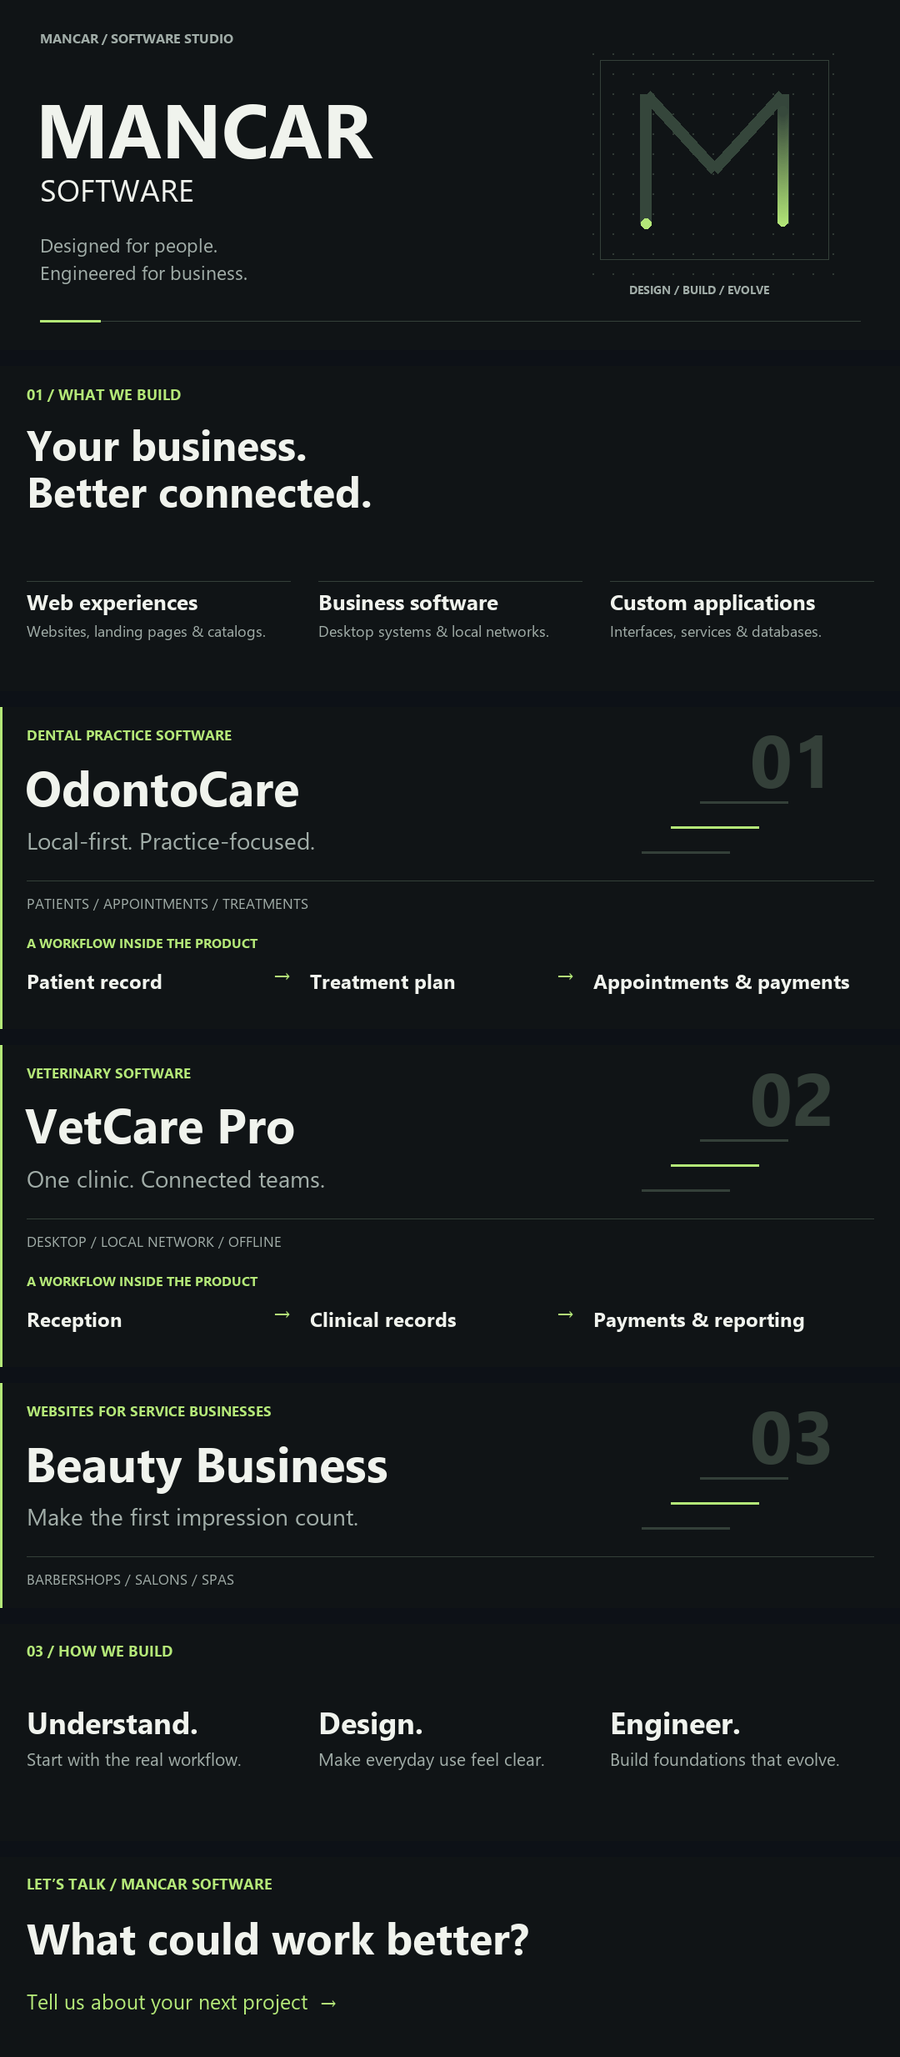
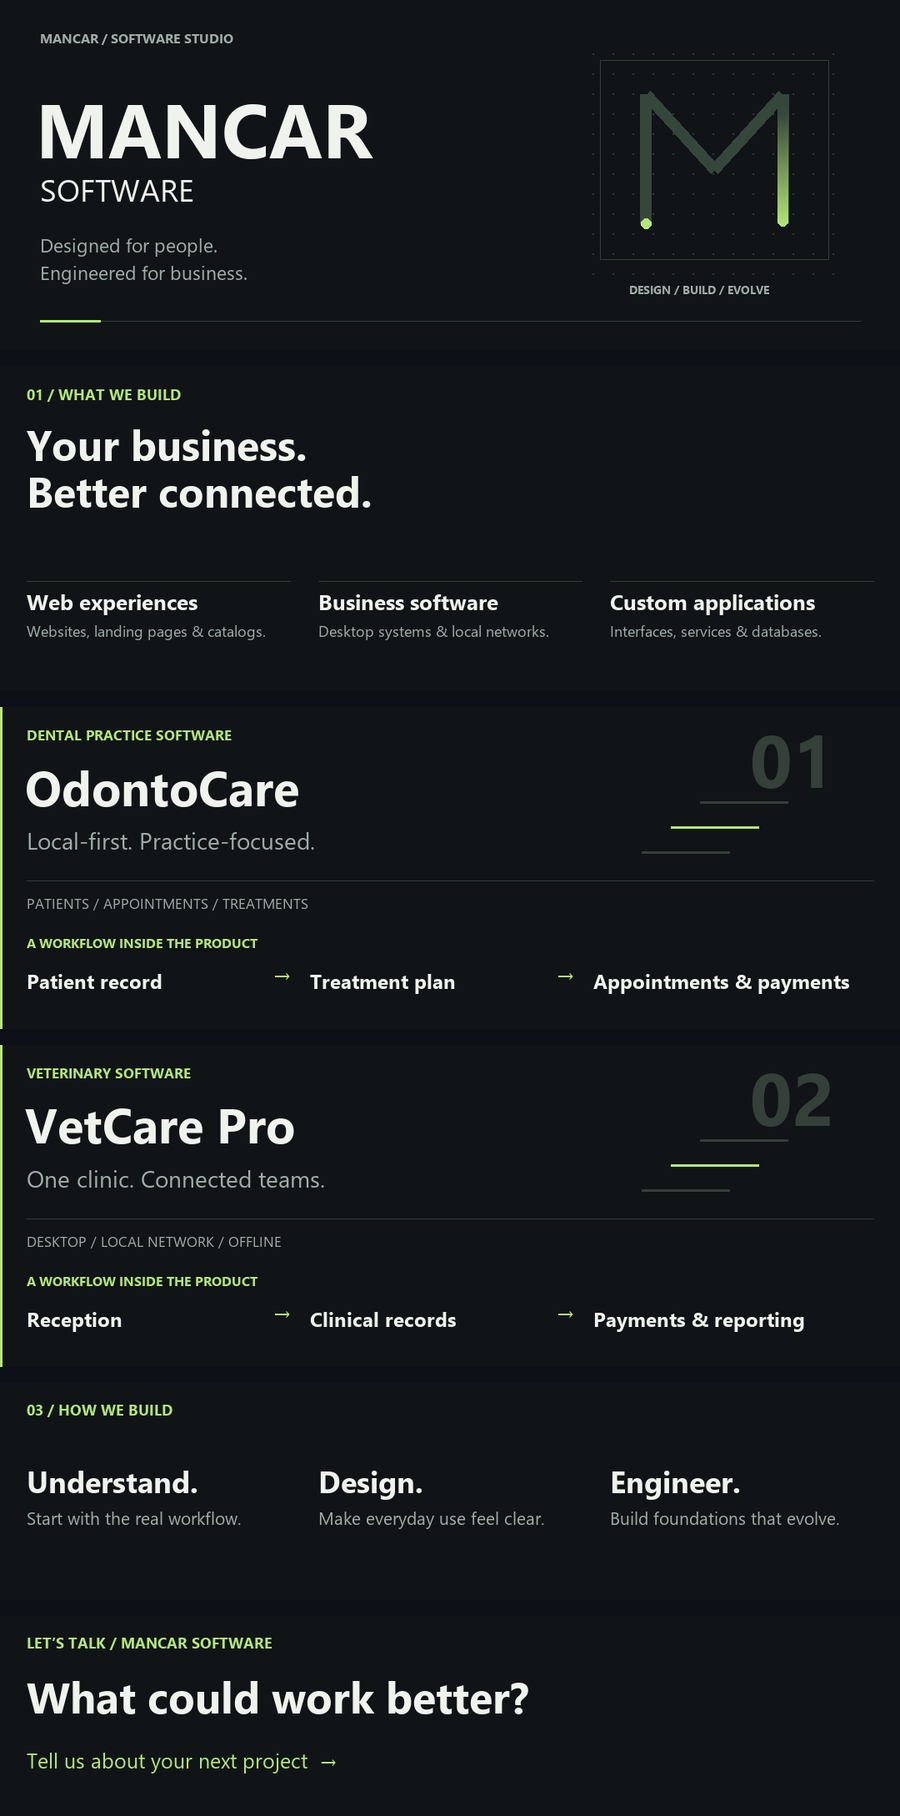
commit(profile): remove Beauty Business showcase and related assets

diff --git a/docs/presentation-preview.html b/docs/presentation-preview.html
@@ -28,7 +28,7 @@
 </details>
 
 <h2 id="selected-work">Selected work</h2>
-<p>A closer look at our work for dental practices, veterinary clinics, and local service businesses. Explore the repositories for implementation details and setup documentation.</p>
+<p>A closer look at our work for dental practices and veterinary clinics. Explore the repositories for implementation details and setup documentation.</p>
 <a href="https://github.com/MancarSoftware/odonto_care">
 <picture>
   <source media="(max-width: 600px)" srcset="../profile/assets/project-odontocare-mobile.svg" />
@@ -67,31 +67,6 @@
 
 <p><a href="https://github.com/MancarSoftware/vetCarePro">Explore VetCare Pro →</a></p>
 <p><a href="https://github.com/MancarSoftware/vetCarePro/blob/main/docs/release-1.1-lan-test-plan.md">Review the LAN test plan</a> · <a href="https://github.com/MancarSoftware/vetCarePro#readme">Read the setup guide</a></p>
-<a href="https://github.com/MancarSoftware/beauty-business-template">
-<picture>
-  <source media="(max-width: 600px)" srcset="../profile/assets/project-beauty-mobile.svg" />
-  <img src="../profile/assets/project-beauty.svg" width="100%" alt="Beauty Business — explore the repository." />
-</picture>
-</a>
-
-<picture>
-  <source media="(max-width: 600px)" srcset="../profile/assets/beauty-business-preview-mobile.png" />
-  <img src="../profile/assets/beauty-business-preview.png" width="100%" alt="Actual rendered BarberPro template: dark barbershop imagery, service introduction, and yellow appointment buttons. Demonstration with sample business content." />
-</picture>
-
-<p><sub>Actual interface rendered from the Beauty Business repository. BarberPro is a template demonstration; business details, ratings, and offers shown are sample content.</sub></p>
-<p>Adaptable websites for barbershops, salons, and spas, with service listings, galleries, and contact sections.</p>
-<p><strong>For:</strong> barbershops, salons, spas, and beauty businesses presenting their services online.</p>
-<p><strong>Inside the project:</strong> service listings, galleries, packages, and contact sections. Content and business data are organized so the website can be adapted to a different service business without rewriting its interface.</p>
-<p><strong>Built with:</strong> React, JavaScript, Vite, and Tailwind CSS.</p>
-<details>
-<summary>Design and implementation details</summary>
-
-<p>A reusable website foundation with shared components and centralized business content. The project separates presentation from business-specific data, making it easier to change the offer, imagery, and contact information together.</p>
-</details>
-
-<p><a href="https://github.com/MancarSoftware/beauty-business-template">Explore Beauty Business →</a></p>
-<p><a href="https://github.com/MancarSoftware/beauty-business-template/blob/5ae0e3bd3186fa6aee8a703a0cd4b6e359537018/src/data/barberiaData.js">Inspect the example’s content structure</a></p>
 <picture>
   <source media="(max-width: 600px)" srcset="../profile/assets/mancar-approach-mobile.svg" />
   <img src="../profile/assets/mancar-approach.svg" width="100%" alt="How we build: understand the real workflow; design for clear everyday use; engineer foundations that evolve." />

diff --git a/scripts/build-presentation.py b/scripts/build-presentation.py
@@ -40,10 +40,9 @@ for mobile in (False,True):
         p.text(x,y+53,body,22 if mobile else 18,MUTED)
     p.save('mancar-capabilities'+suffix)
 
-    projects=[('odontocare','01','OdontoCare','DENTAL PRACTICE SOFTWARE','Local-first. Practice-focused.','PATIENTS / APPOINTMENTS / TREATMENTS'),('vetcare','02','VetCare Pro','VETERINARY SOFTWARE','One clinic. Connected teams.','DESKTOP / LOCAL NETWORK / OFFLINE'),('beauty','03','Beauty Business','WEBSITES FOR SERVICE BUSINESSES','Make the first impression count.','BARBERSHOPS / SALONS / SPAS')]
+    projects=[('odontocare','01','OdontoCare','DENTAL PRACTICE SOFTWARE','Local-first. Practice-focused.','PATIENTS / APPOINTMENTS / TREATMENTS'),('vetcare','02','VetCare Pro','VETERINARY SOFTWARE','One clinic. Connected teams.','DESKTOP / LOCAL NETWORK / OFFLINE')]
     for slug,num,name,category,tag,meta in projects:
-        clinical = slug != 'beauty'
-        p=Panel(w,(436 if mobile else 386) if clinical else (280 if mobile else 270))
+        p=Panel(w,436 if mobile else 386)
         p.line(0,0,0,p.h,LIME,5)
         p.text(32,28,category,17,LIME,True)
         p.text(30,76,name,48 if mobile else 58,bold=True)
@@ -55,17 +54,16 @@ for mobile in (False,True):
             # Abstract structural motif, deliberately not a product screenshot.
             for j in range(3):
                 p.line(770+j*35,174-j*30,875+j*35,174-j*30,LIME if j==1 else LINE,3)
-        if clinical:
-            p.text(32,278,'A WORKFLOW INSIDE THE PRODUCT',16,LIME,True)
-            steps = ('Patient record','Treatment plan','Appointments & payments') if slug=='odontocare' else ('Reception','Clinical records','Payments & reporting')
-            if mobile:
-                p.text(32,316,steps[0]+'  /  '+steps[1],24,bold=True)
-                p.text(32,358,steps[2],24,bold=True)
-            else:
-                for j,step in enumerate(steps):
-                    x=32+j*340
-                    p.text(x,320,step,24,bold=True)
-                    if j<2: p.text(x+295,318,'→',26,LIME)
+        p.text(32,278,'A WORKFLOW INSIDE THE PRODUCT',16,LIME,True)
+        steps = ('Patient record','Treatment plan','Appointments & payments') if slug=='odontocare' else ('Reception','Clinical records','Payments & reporting')
+        if mobile:
+            p.text(32,316,steps[0]+'  /  '+steps[1],24,bold=True)
+            p.text(32,358,steps[2],24,bold=True)
+        else:
+            for j,step in enumerate(steps):
+                x=32+j*340
+                p.text(x,320,step,24,bold=True)
+                if j<2: p.text(x+295,318,'→',26,LIME)
         p.save('project-'+slug+suffix)
 
     p=Panel(w,400 if mobile else 260)
@@ -110,7 +108,7 @@ We choose the setup around connectivity, access, data handling, and maintenance 
 
 </details>''',
     '## Selected work',
-    'A closer look at our work for dental practices, veterinary clinics, and local service businesses. Explore the repositories for implementation details and setup documentation.'
+    'A closer look at our work for dental practices and veterinary clinics. Explore the repositories for implementation details and setup documentation.'
 ]
 project_details = {
     'odontocare': '''**For:** dental clinics managing clinical and administrative work in one place.
@@ -136,37 +134,16 @@ Designed as an installable Windows application with local PostgreSQL storage. Th
 
 Supports standalone, LAN server, and LAN client modes on Windows. One computer hosts the local services and data; the others connect over the clinic's network. Internet access is not required for this local workflow. The repository includes installation, network configuration, and backup guidance.
 
-</details>''',
-    'beauty': '''**For:** barbershops, salons, spas, and beauty businesses presenting their services online.
-
-**Inside the project:** service listings, galleries, packages, and contact sections. Content and business data are organized so the website can be adapted to a different service business without rewriting its interface.
-
-**Built with:** React, JavaScript, Vite, and Tailwind CSS.
-
-<details>
-<summary>Design and implementation details</summary>
-
-A reusable website foundation with shared components and centralized business content. The project separates presentation from business-specific data, making it easier to change the offer, imagery, and contact information together.
-
 </details>'''
 }
 project_evidence = {
     'odontocare': '[Read the user guide](https://github.com/MancarSoftware/odonto_care/blob/main/docs/USER_GUIDE.md) · [Review the release checklist](https://github.com/MancarSoftware/odonto_care/blob/main/docs/RELEASE_CHECKLIST.md)',
-    'vetcare': '[Review the LAN test plan](https://github.com/MancarSoftware/vetCarePro/blob/main/docs/release-1.1-lan-test-plan.md) · [Read the setup guide](https://github.com/MancarSoftware/vetCarePro#readme)',
-    'beauty': '[Inspect the example’s content structure](https://github.com/MancarSoftware/beauty-business-template/blob/5ae0e3bd3186fa6aee8a703a0cd4b6e359537018/src/data/barberiaData.js)'
+    'vetcare': '[Review the LAN test plan](https://github.com/MancarSoftware/vetCarePro/blob/main/docs/release-1.1-lan-test-plan.md) · [Read the setup guide](https://github.com/MancarSoftware/vetCarePro#readme)'
 }
 for slug,name,url,description in [
     ('odontocare','OdontoCare','odonto_care','Patient records, appointments, treatments, and payments in a Windows application that works offline.'),
-    ('vetcare','VetCare Pro','vetCarePro','Veterinary software for a single PC or a connected clinic, with records and payments available over the local network.'),
-    ('beauty','Beauty Business','beauty-business-template','Adaptable websites for barbershops, salons, and spas, with service listings, galleries, and contact sections.')]:
+    ('vetcare','VetCare Pro','vetCarePro','Veterinary software for a single PC or a connected clinic, with records and payments available over the local network.')]:
     parts += ['<a href="https://github.com/MancarSoftware/'+url+'">\n'+picture('project-'+slug,name+' — explore the repository.')+'\n</a>']
-    if slug == 'beauty':
-        parts += ['''<picture>
-  <source media="(max-width: 600px)" srcset="assets/beauty-business-preview-mobile.png" />
-  <img src="assets/beauty-business-preview.png" width="100%" alt="Actual rendered BarberPro template: dark barbershop imagery, service introduction, and yellow appointment buttons. Demonstration with sample business content." />
-</picture>
-
-<sub>Actual interface rendered from the Beauty Business repository. BarberPro is a template demonstration; business details, ratings, and offers shown are sample content.</sub>''']
     parts += [description,project_details[slug],'[Explore '+name+' →](https://github.com/MancarSoftware/'+url+')',project_evidence[slug]]
 parts += [
     picture('mancar-approach','How we build: understand the real workflow; design for clear everyday use; engineer foundations that evolve.'),
@@ -247,7 +224,7 @@ content='\n\n'.join(parts)+'\n'
 (ROOT/'README.md').write_text(content.replace('"assets/','"profile/assets/'),encoding='utf-8')
 
 # Inspect the actual artwork together at desktop and phone widths.
-names=['mancar-header-static','mancar-capabilities','project-odontocare','project-vetcare','project-beauty','mancar-approach','mancar-contact']
+names=['mancar-header-static','mancar-capabilities','project-odontocare','project-vetcare','mancar-approach','mancar-contact']
 for mobile in (False,True):
     width=375 if mobile else 900
     images=[]

diff --git a/README.md b/README.md
@@ -35,7 +35,7 @@ We choose the setup around connectivity, access, data handling, and maintenance 
 
 ## Selected work
 
-A closer look at our work for dental practices, veterinary clinics, and local service businesses. Explore the repositories for implementation details and setup documentation.
+A closer look at our work for dental practices and veterinary clinics. Explore the repositories for implementation details and setup documentation.
 
 <a href="https://github.com/MancarSoftware/odonto_care">
 <picture>
@@ -88,39 +88,6 @@ Supports standalone, LAN server, and LAN client modes on Windows. One computer h
 [Explore VetCare Pro →](https://github.com/MancarSoftware/vetCarePro)
 
 [Review the LAN test plan](https://github.com/MancarSoftware/vetCarePro/blob/main/docs/release-1.1-lan-test-plan.md) · [Read the setup guide](https://github.com/MancarSoftware/vetCarePro#readme)
-
-<a href="https://github.com/MancarSoftware/beauty-business-template">
-<picture>
-  <source media="(max-width: 600px)" srcset="profile/assets/project-beauty-mobile.svg" />
-  <img src="profile/assets/project-beauty.svg" width="100%" alt="Beauty Business — explore the repository." />
-</picture>
-</a>
-
-<picture>
-  <source media="(max-width: 600px)" srcset="profile/assets/beauty-business-preview-mobile.png" />
-  <img src="profile/assets/beauty-business-preview.png" width="100%" alt="Actual rendered BarberPro template: dark barbershop imagery, service introduction, and yellow appointment buttons. Demonstration with sample business content." />
-</picture>
-
-<sub>Actual interface rendered from the Beauty Business repository. BarberPro is a template demonstration; business details, ratings, and offers shown are sample content.</sub>
-
-Adaptable websites for barbershops, salons, and spas, with service listings, galleries, and contact sections.
-
-**For:** barbershops, salons, spas, and beauty businesses presenting their services online.
-
-**Inside the project:** service listings, galleries, packages, and contact sections. Content and business data are organized so the website can be adapted to a different service business without rewriting its interface.
-
-**Built with:** React, JavaScript, Vite, and Tailwind CSS.
-
-<details>
-<summary>Design and implementation details</summary>
-
-A reusable website foundation with shared components and centralized business content. The project separates presentation from business-specific data, making it easier to change the offer, imagery, and contact information together.
-
-</details>
-
-[Explore Beauty Business →](https://github.com/MancarSoftware/beauty-business-template)
-
-[Inspect the example’s content structure](https://github.com/MancarSoftware/beauty-business-template/blob/5ae0e3bd3186fa6aee8a703a0cd4b6e359537018/src/data/barberiaData.js)
 
 <picture>
   <source media="(max-width: 600px)" srcset="profile/assets/mancar-approach-mobile.svg" />

diff --git a/profile/README.md b/profile/README.md
@@ -35,7 +35,7 @@ We choose the setup around connectivity, access, data handling, and maintenance 
 
 ## Selected work
 
-A closer look at our work for dental practices, veterinary clinics, and local service businesses. Explore the repositories for implementation details and setup documentation.
+A closer look at our work for dental practices and veterinary clinics. Explore the repositories for implementation details and setup documentation.
 
 <a href="https://github.com/MancarSoftware/odonto_care">
 <picture>
@@ -88,39 +88,6 @@ Supports standalone, LAN server, and LAN client modes on Windows. One computer h
 [Explore VetCare Pro →](https://github.com/MancarSoftware/vetCarePro)
 
 [Review the LAN test plan](https://github.com/MancarSoftware/vetCarePro/blob/main/docs/release-1.1-lan-test-plan.md) · [Read the setup guide](https://github.com/MancarSoftware/vetCarePro#readme)
-
-<a href="https://github.com/MancarSoftware/beauty-business-template">
-<picture>
-  <source media="(max-width: 600px)" srcset="assets/project-beauty-mobile.svg" />
-  <img src="assets/project-beauty.svg" width="100%" alt="Beauty Business — explore the repository." />
-</picture>
-</a>
-
-<picture>
-  <source media="(max-width: 600px)" srcset="assets/beauty-business-preview-mobile.png" />
-  <img src="assets/beauty-business-preview.png" width="100%" alt="Actual rendered BarberPro template: dark barbershop imagery, service introduction, and yellow appointment buttons. Demonstration with sample business content." />
-</picture>
-
-<sub>Actual interface rendered from the Beauty Business repository. BarberPro is a template demonstration; business details, ratings, and offers shown are sample content.</sub>
-
-Adaptable websites for barbershops, salons, and spas, with service listings, galleries, and contact sections.
-
-**For:** barbershops, salons, spas, and beauty businesses presenting their services online.
-
-**Inside the project:** service listings, galleries, packages, and contact sections. Content and business data are organized so the website can be adapted to a different service business without rewriting its interface.
-
-**Built with:** React, JavaScript, Vite, and Tailwind CSS.
-
-<details>
-<summary>Design and implementation details</summary>
-
-A reusable website foundation with shared components and centralized business content. The project separates presentation from business-specific data, making it easier to change the offer, imagery, and contact information together.
-
-</details>
-
-[Explore Beauty Business →](https://github.com/MancarSoftware/beauty-business-template)
-
-[Inspect the example’s content structure](https://github.com/MancarSoftware/beauty-business-template/blob/5ae0e3bd3186fa6aee8a703a0cd4b6e359537018/src/data/barberiaData.js)
 
 <picture>
   <source media="(max-width: 600px)" srcset="assets/mancar-approach-mobile.svg" />

diff --git a/docs/PROFILE-MAINTENANCE.md b/docs/PROFILE-MAINTENANCE.md
@@ -16,8 +16,6 @@ Keep all visual assets in `profile/assets/`. The public presentation uses an ani
 
 ### Evidence and browser review
 
-- The Beauty Business screenshots were captured from the actual public repository at commit `5ae0e3bd3186fa6aee8a703a0cd4b6e359537018`, running locally. The source checkout was kept outside this repository. Its lockfile needed resolution in that temporary checkout before the preview could run; application source was unchanged.
-- The screenshots show the template's BarberPro example, including sample ratings, prices, and other business content. The public caption identifies it as a demonstration, not a customer endorsement or a verified business result.
 - Clinical project artwork describes workflows documented in the public repositories. It is not an application screenshot. The public user guide, release checklist, and LAN test plan are linked from the respective entries; a test plan is not evidence that all tests have passed.
 - `docs/presentation-preview.html` is a local HTML rendering of the complete README with approximate GitHub styling. It includes native copy, disclosure sections, and project images. Its CSS is only for local review and is not embedded in the README.
 - Browser review at 390 px and 960 px confirmed that mobile/desktop image variants load, no image is broken, content has no horizontal overflow, and an expandable answer opens. `docs/presentation-mobile-check.png` records the mobile project layout. This is not a published GitHub verification.
